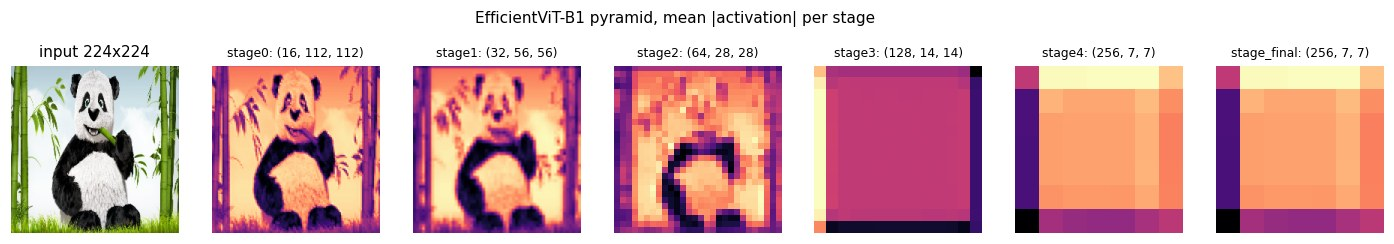
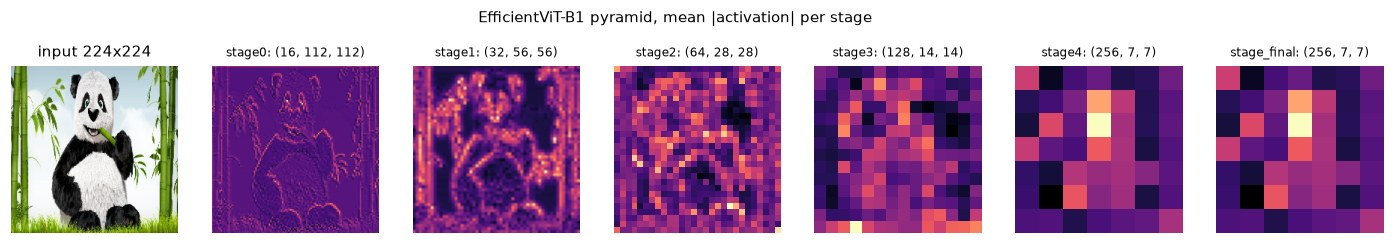
fix(models): load the pretrained EfficientViT backbone weights
The hosted checkpoints store the backbone under a 'backbone.' prefix plus a
'head.' classifier. The previous strict=False load passed the raw dict, so no
key matched and every pretrained model was randomly initialised. Strip the
prefix, drop the head keys and load with strict=True, which now that the
mapping is exact catches future checkpoint drift. Regenerate the docs figure
with the trained weights.

diff --git a/tests/models/test_efficient_vit.py b/tests/models/test_efficient_vit.py
@@ -25,6 +25,33 @@ from kornia.models.efficient_vit import backbone as vit
 
 
 class TestEfficientViT:
+    @staticmethod
+    def _fake_checkpoint() -> dict[str, torch.Tensor]:
+        """Mimic the hosted checkpoints: backbone weights under a ``backbone.`` prefix plus a ``head.`` classifier."""
+        model = vit.efficientvit_backbone_b1()
+        state_dict = {
+            f"backbone.{key}": val.clone()
+            for key, val in model.state_dict().items()
+            if "num_batches_tracked" not in key
+        }
+        state_dict["head.classifier.weight"] = torch.randn(1000, 128)
+        state_dict["head.classifier.bias"] = torch.randn(1000)
+        return state_dict
+
+    def test_load_pretrained_loads_the_checkpoint_weights(self, monkeypatch):
+        # GH#5276: strict=False over the raw checkpoint silently loaded no weight at all
+        state_dict = self._fake_checkpoint()
+        monkeypatch.setattr(
+            "kornia.models.efficient_vit.model.load_state_dict_from_url",
+            lambda *args, **kwargs: {"state_dict": state_dict},
+        )
+
+        model = EfficientViT.from_config(EfficientViTConfig())
+
+        for key, val in state_dict.items():
+            if key.startswith("backbone."):
+                assert torch.equal(model.backbone.state_dict()[key[len("backbone.") :]], val)
+
     def _test_smoke(self, device, dtype, img_size: int, expected_resolution: int, model_name: str):
         model = getattr(vit, f"efficientvit_backbone_{model_name}")()
         model = model.to(device=device, dtype=dtype)

diff --git a/kornia/models/efficient_vit/model.py b/kornia/models/efficient_vit/model.py
@@ -93,7 +93,15 @@ class EfficientViT(ModelBase[EfficientViTConfig]):
 
         # create and load the model weights without strict until we polish the model files
         model = getattr(vit, f"efficientvit_backbone_{model_type}")()
-        model.load_state_dict(model_file, strict=False)
+        # the checkpoints store the backbone under a "backbone." prefix, plus a "head." classifier the
+        # backbone has no slot for -- https://github.com/kornia/kornia/issues/5276
+        state_dict = {key[len("backbone.") :]: val for key, val in model_file.items() if key.startswith("backbone.")}
+        if not state_dict:
+            raise RuntimeError(
+                f"No 'backbone.*' entries found in the checkpoint {config.checkpoint!r} -- cannot load it into "
+                f"efficientvit_backbone_{model_type}."
+            )
+        model.load_state_dict(state_dict, strict=True)
 
         return EfficientViT(backbone=model)
 

diff --git a/changelog.d/+efficientvit-pretrained.fixed.md b/changelog.d/+efficientvit-pretrained.fixed.md
@@ -1,0 +1,1 @@
+`EfficientViT.from_config` now loads the pretrained backbone weights: the hosted checkpoints store them under a `backbone.` prefix, which the previous non-strict load silently dropped, so every "pretrained" model was randomly initialised.
